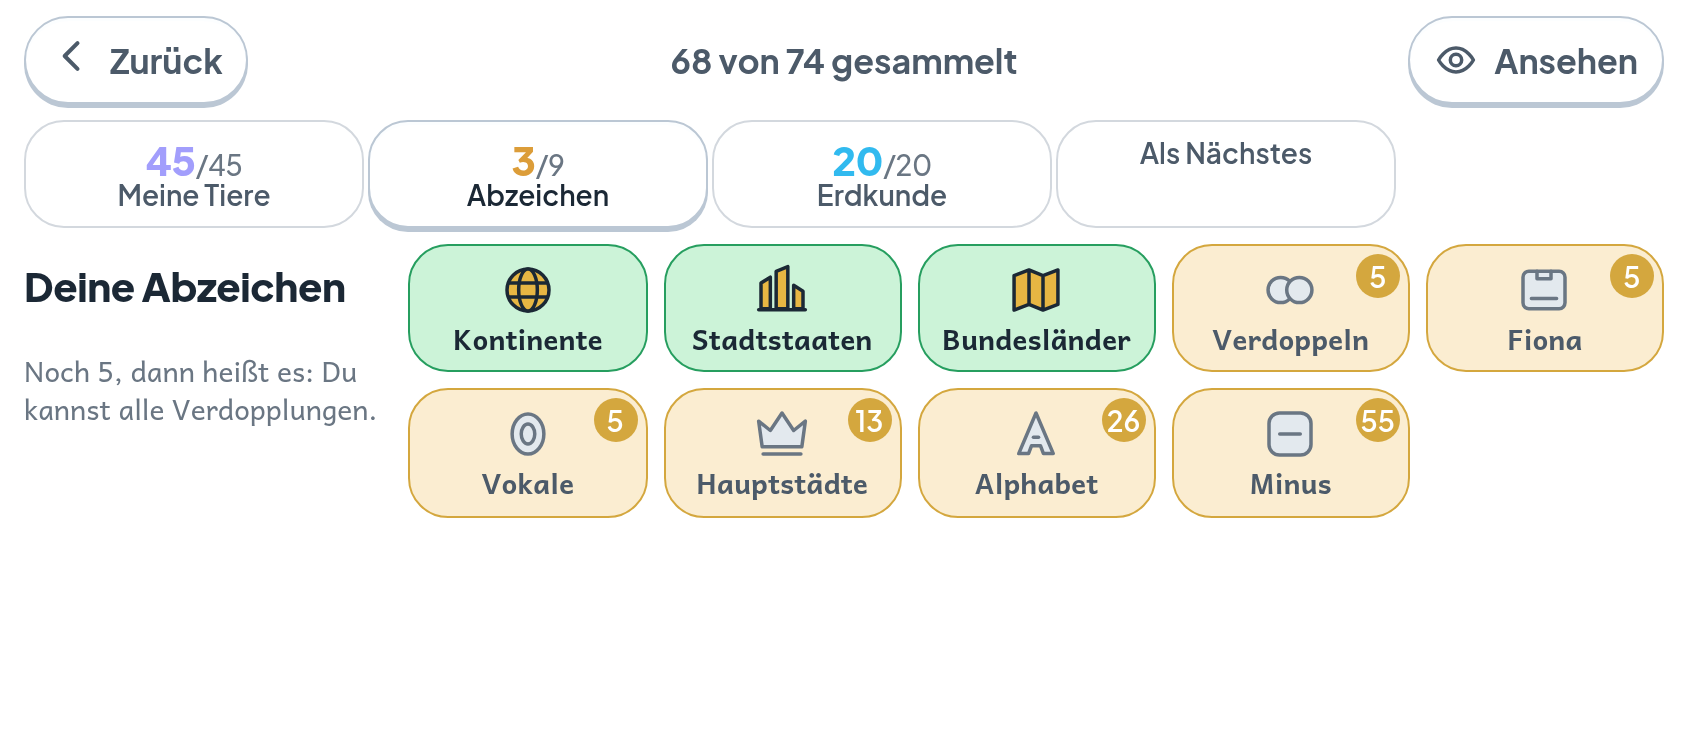
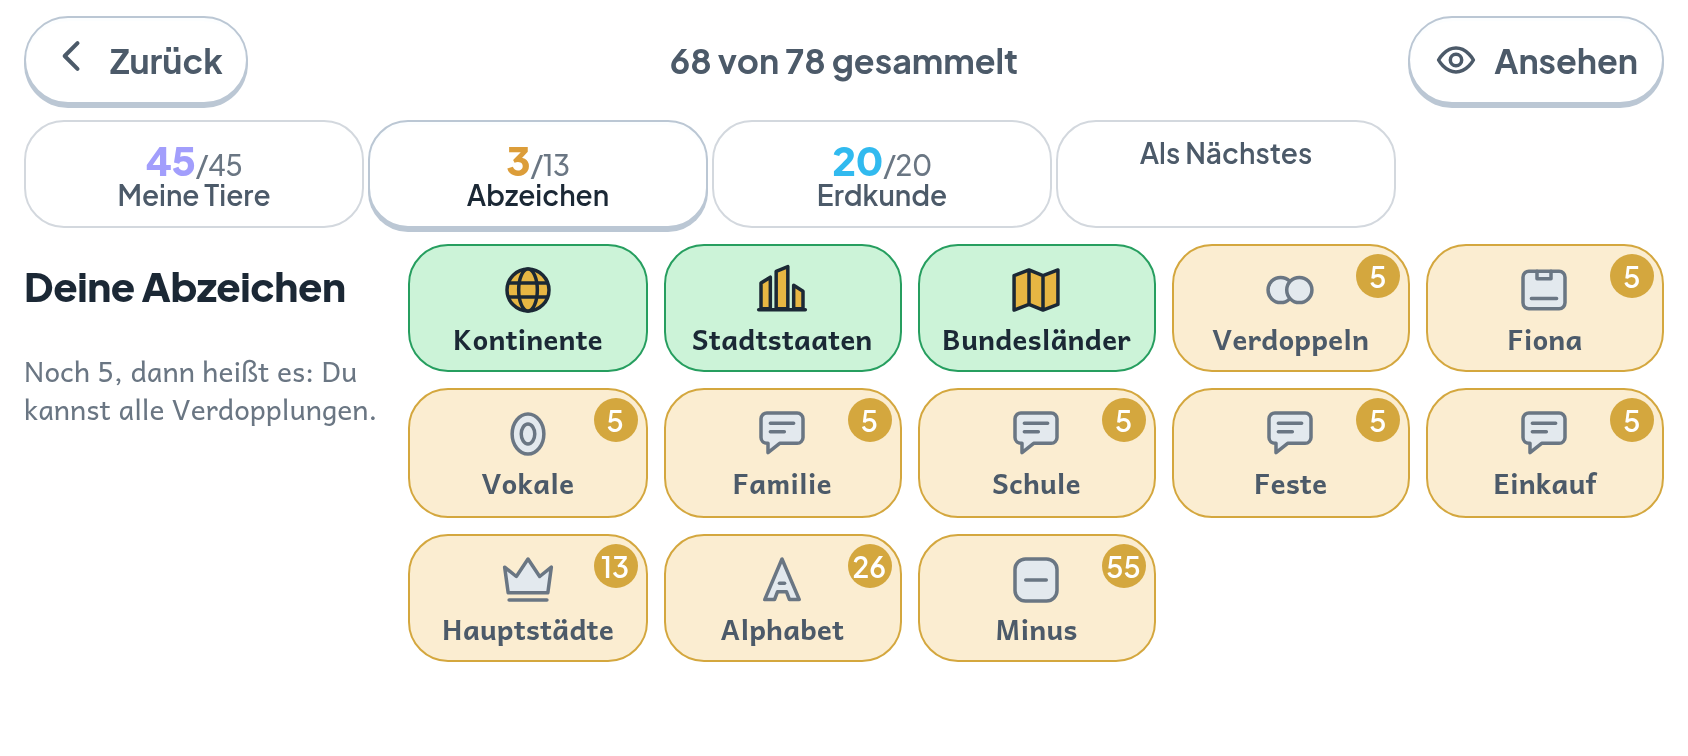
E9b: vier Abzeichen fuer die Saetze zum Selbersagen
Die erste Menge dieser Tafel, die nicht an einem MERKMAL des Gegenstands
haengt, sondern an seiner HERKUNFT: jeder Satz traegt die Nummer des
Themengebiets, aus dessen Redemitteln er stammt. Fuenf Saetze je Gebiet,
vier Gebiete - Familie, Schule, Feste, Einkauf.

Die Mechanik blieb unberuehrt. `abzeichenDer` kann `je:[…]` seit den
Malreihen, `stand` rechnet ohnehin nur ueber `teile`. Dazu kamen vier
Eintraege in `TAFEL`, ein Zeichen (`blase`) und ein Eintrag im Vorrat
des Tores.

Der Titel sagt „die Saetze", nicht „alle Saetze". Zum Thema Schule gibt
es mehr englische Saetze als fuenf; in D2b ist an derselben Stelle „alle
Laender in Asien" ausgefallen, weil das Kind es eines Tages merkt.

Und eine neue Doppelung samt Wache: die deutschen Gebietsnamen stehen
jetzt auch in `abzeichen.js`, damit das Modul ohne Einfuhren bleibt.
Was zweimal dasteht, veraltet einmal - deshalb vergleicht das Tor
`abzeichen` die vier Kennungen gegen `THEMENGEBIETE`.

Zwei Gegenproben: die Menge faellt leer aus, die Abdeckung veraltet.
Vorbild `quer-buch-abzeichen` erneuert - 19 statt 15 Abzeichen.

Claude-Session: https://claude.ai/code/session_01GwecUQxeRqJxKHLkGsVrjv

diff --git a/src/inhalt/abzeichen.js b/src/inhalt/abzeichen.js
@@ -74,6 +74,27 @@
 const REIHENWORT = { 2:'Zweier', 3:'Dreier', 4:'Vierer', 5:'Fünfer', 6:'Sechser',
                      7:'Siebener', 8:'Achter', 9:'Neuner', 10:'Zehner' };
 
+/** Die vier Themengebiete des Lehrplans, kurz und lang.
+ *
+ * Die Namen stehen amtlich in `THEMENGEBIETE` (src/inhalt/englisch.js).
+ * Sie stehen hier trotzdem ein zweites Mal. Was zweimal dasteht,
+ * veraltet einmal (Regel 6) - es sei denn, es wird bewacht. Dieses
+ * Modul hat keine Einfuhren, damit es sich ohne Profil und ohne Vorrat
+ * pruefen laesst, und das soll so bleiben. Bewacht wird die Doppelung im Tor
+ * `inhalt`: die vier Kennungen hier muessen genau die vier Nummern der
+ * amtlichen Tafel sein, sonst faellt das Tor. Eine Doppelung, die eine
+ * Pruefung hat, veraltet nicht still.
+ *
+ * `lang` steht hinter „zum Thema" - deshalb ohne Artikel, und deshalb
+ * traegt es fuer alle vier dieselbe Fuge. „Du hast die Saetze zur
+ * Schule gesagt" haette je Gebiet einen anderen Fall gebraucht. */
+const GEBIETSWORT = {
+  '4.1': { kurz: 'Familie', lang: 'Familie und Freunde' },
+  '4.2': { kurz: 'Schule',  lang: 'Schule' },
+  '4.3': { kurz: 'Feste',   lang: 'Freizeit und Feste' },
+  '4.4': { kurz: 'Einkauf', lang: 'Einkaufen' },
+};
+
 /* Die Tafel.
  *
  * Je Eintrag:
@@ -208,6 +229,26 @@ export const TAFEL = [
     kurz: () => 'Vokale',
     titel: () => 'Du kennst alle Vokale.',
     waehlt: (v) => v.filter(x => 'AEIOU'.includes(x.zeichen)) },
+
+  /* --- E9b: vier Abzeichen fuer die Saetze zum Selbersagen ------------ *
+   *
+   * Die erste Menge dieser Tafel, die nicht aus einem Merkmal am
+   * Gegenstand faellt, sondern aus seiner HERKUNFT: jeder Satz traegt
+   * die Nummer des Themengebiets, aus dessen Redemitteln er stammt.
+   * Fuenf Saetze je Gebiet - klein genug, um sie zu Ende zu bringen,
+   * und das war die Lehre aus dem Panini-Album.
+   *
+   * Der Titel sagt „die Saetze", nicht „alle Saetze". Der Unterschied
+   * ist derselbe wie bei „alle Laender in Asien" ein Stueck weiter
+   * oben: es gibt zum Thema Schule mehr englische Saetze als fuenf, und
+   * ein Kind, das das eines Tages merkt, soll das Abzeichen nicht als
+   * Luege erleben. „Die Saetze" meint die, die es hier gab - und die
+   * hat es dann wirklich alle gesagt. */
+  { ebene:'englisch:satz', id:(g)=>`saetze-${g}`, zeichen:'blase',
+    je:['4.1','4.2','4.3','4.4'],
+    kurz: (g) => GEBIETSWORT[g].kurz,
+    titel: (g) => `Du hast die Sätze zum Thema ${GEBIETSWORT[g].lang} gesagt.`,
+    waehlt: (v, g) => v.filter(x => x.gebiet === g) },
 ];
 
 /**

diff --git a/prototyp/spiel.js b/prototyp/spiel.js
@@ -2672,6 +2672,14 @@ const ABZEICHENBILD = {
      dem A, liest sich das freistehende O als Buchstabe. */
   vokal: '<ellipse cx="12" cy="12" rx="6.8" ry="8.6"/>'
        + '<ellipse cx="12" cy="12" rx="2.9" ry="4.3" fill="none"/>',
+  /* Die Sprechblase der Satzebene (E9b). Sie ist im Spiel schon die
+     Kachel von „Sag den Satz" (`BLASENSTRICH`) - hier dieselbe Form in
+     der Abzeichensprache: gefuellt mit Kontur, die Zeilen darin ohne
+     Fuellung. `schild` ist ebenfalls ein Rechteck mit Strichen, aber
+     ohne Schwanz; bei 34 Punkten ist der Schwanz der Unterschied, den
+     man sieht. */
+  blase: '<path d="M3 5.5A2.5 2.5 0 0 1 5.5 3h13A2.5 2.5 0 0 1 21 5.5v8a2.5 2.5 0 0 1-2.5 2.5H11l-5 4v-4h-.5A2.5 2.5 0 0 1 3 13.5z"/>'
+       + '<path d="M7 7.4h10M7 11h6" fill="none" stroke-linecap="round"/>',
   medaille: '<path d="M8.2 2.6 12 9.4 15.8 2.6" fill="none" stroke-linecap="round"/>'
           + '<circle cx="12" cy="15.4" r="6.2"/>'
           + '<path d="M9.4 15.6l1.9 1.9 3.4-3.9" fill="none" stroke-linecap="round"/>',

diff --git a/docs/Lernkiste-BACKLOG.md b/docs/Lernkiste-BACKLOG.md
@@ -399,7 +399,7 @@ veraltet eine der beiden Fassungen).
 | **E11** | **Eltern: Wendungen** je Themengebiet, mehrere gueltige Antworten | **GEFAHREN v376** — siehe Block unten |
 | **E12** | **Eltern: Hoeren und schreiben** — ganzer Satz, normales Tempo | **GEFAHREN v376** — siehe Block unten |
 
-### E9 · „Der Satz zum Selbersagen" — GEFAHREN (die Sätze; die Abzeichen als E9b)
+### E9 · „Der Satz zum Selbersagen" — GEFAHREN (die Sätze; die Abzeichen als E9b — auch gefahren)
 
 **Zwanzig Sätze, und keiner davon ist erfunden.** `THEMENGEBIETE` hält die
 amtlichen Redemittel — aber als **Schablonen**: *„This is my (little)
@@ -432,11 +432,39 @@ Mikrofon und einen Knopf, beide sagen ihr Englisch vor, beide werten. Ohne
 diese Zeile bliebe ein Durchlauf grün, während „Sag den Satz" still nach
 Farben fragt.
 
-**Offen als E9b: die Abzeichen je Themengebiet.** Die Mechanik trägt sie ohne
-eine Zeile Änderung (`abzeichenDer`, `stand`), was fehlt sind vier Einträge in
-der Tafel und vier Zeichen. Und die eigentliche Form aus dem Konzept — den
-Satz aus Wortkarten **zusammensetzen** — braucht dasselbe Legebauteil wie E8;
-das ist der Grund, warum beide zusammen gehören und nicht einzeln.
+### E9b · Vier Abzeichen für die Sätze — GEFAHREN
+
+Die Vorhersage stimmte: **keine Zeile an der Mechanik.** `abzeichenDer` kann
+`je:[…]` seit den Malreihen, `stand` rechnet ohnehin nur über `teile`. Was
+dazukam, sind vier Einträge in `TAFEL`, ein Zeichen (`blase`) und ein Eintrag
+im Vorrat des Tores — zusammen unter fünfzig Zeilen.
+
+**Die Menge kommt zum ersten Mal aus der HERKUNFT, nicht aus einem Merkmal.**
+Alle bisherigen Abzeichen wählen an etwas, das der Gegenstand *ist*:
+`stadtstaat`, `nachbarDE`, `rechenart === 'minus'`, ein Vokal. Ein Satz ist
+nichts davon — er *stammt* aus einem Themengebiet, und `gebiet` trägt genau
+das. Fünf Sätze je Gebiet, vier Gebiete.
+
+**Der Titel sagt „die Sätze", nicht „alle Sätze".** Das ist dieselbe
+Entscheidung, an der in D2b „alle Länder in Asien" gescheitert ist: es gibt
+zum Thema Schule mehr englische Sätze als fünf. „Alle" wäre ein Satz, den das
+Kind eines Tages als Lüge erlebt; „die Sätze" meint die, die es hier gab — und
+die hat es dann wirklich alle gesagt.
+
+**Und die eine neue Doppelung, samt Wache.** Die deutschen Gebietsnamen
+stehen jetzt in `abzeichen.js` ein zweites Mal, weil das Modul ohne Einfuhren
+bleiben soll (nur so lässt es sich ohne Profil und ohne Vorrat prüfen). Was
+zweimal dasteht, veraltet einmal — Regel 6 verlangt dafür eine Wache, und
+hier ist sie: das Tor `abzeichen` vergleicht die vier Kennungen
+gegen `THEMENGEBIETE`. Wer dort ein Gebiet hinzufügt, bekommt es gesagt,
+statt ein namenloses Abzeichen zu erben.
+
+Zwei Gegenproben: die Menge fällt leer aus (Tippfehler im Feldnamen), und die
+Abdeckung veraltet (ein Gebiet weniger in `je`).
+
+**Was von E9 offen bleibt:** die eigentliche Form aus dem Konzept — den Satz
+aus Wortkarten **zusammensetzen** (E9c). Sie braucht dasselbe Legebauteil wie
+E8; das ist der Grund, warum beide zusammen gehören und nicht einzeln.
 
 ### E6 · „Sag es" — GEFAHREN
 

diff --git a/docs/Lernkiste-STAND.md b/docs/Lernkiste-STAND.md
@@ -11478,3 +11478,42 @@ sie geht leise.** Die Liste dieser Woche:
 
 Alle vier hätten sich als „grünes Tor" gemeldet. Keine einzige davon war ein
 Fehler in der App.
+
+## E9b · Vier Abzeichen für die Sätze — und die erste Menge aus einer Herkunft
+
+**Was gebaut wurde.** Vier Einträge in `TAFEL`, ein Zeichen (`blase`), ein
+Eintrag im Vorrat des Tores `abzeichen`. Die Mechanik blieb unberührt:
+`abzeichenDer` kann `je:[…]` seit den Malreihen, `stand` rechnet ohnehin nur
+über `teile`. Gemessen an der Abzeichenseite: **19 statt 15 Abzeichen**, vier
+neue Kacheln in der zweiten Reihe — Familie · Schule · Feste · Einkauf, je
+fünf Sätze.
+
+**Die erste Menge, die nicht an einem MERKMAL hängt.** Alle bisherigen wählen
+an etwas, das der Gegenstand *ist*: `stadtstaat`, `nachbarDE`,
+`rechenart === 'minus'`, ein Vokal in `AEIOU`. Ein Satz ist nichts davon — er
+*stammt* aus einem Themengebiet. `gebiet` trägt genau das, seit E9, weil jeder
+Satz seine Quelle nachweisen muss. Das Abzeichen war damit schon bezahlt,
+bevor es gebaut wurde; das ist der Grund, warum es unter fünfzig Zeilen
+gekostet hat.
+
+**„Die Sätze", nicht „alle Sätze".** Zum Thema Schule gibt es mehr englische
+Sätze als die fünf, die hier stehen. In D2b ist an genau dieser Stelle „alle
+Länder in Asien" ausgefallen (zwölf von achtundvierzig): ein Abzeichen, dessen
+Satz das Kind eines Tages als Lüge erlebt, ist schlechter als keines. „Die
+Sätze" meint die, die es hier gab — und die hat es dann wirklich alle gesagt.
+Der Unterschied ist ein Wort und kostet nichts.
+
+**Die neue Doppelung und ihre Wache.** Die deutschen Gebietsnamen stehen jetzt
+zweimal: amtlich in `THEMENGEBIETE`, und noch einmal in `abzeichen.js`. Das ist
+Absicht — das Modul hat keine Einfuhren, damit es sich ohne Profil und ohne
+Vorrat prüfen lässt. Aber was zweimal dasteht, veraltet einmal, und deshalb
+vergleicht das Tor `abzeichen` jetzt die vier Kennungen gegen die amtliche
+Tafel. Wer dort ein Gebiet hinzufügt oder umnummeriert, bekommt es gesagt,
+statt ein namenloses Abzeichen zu erben.
+
+**Das Zeichen.** Eine Sprechblase, gefüllt mit Kontur, die zwei Zeilen darin
+ohne Füllung — dieselbe Bildsprache wie `stadt` und `schild`. Der Blick auf
+die Aufnahme war nötig: `schild` ist ebenfalls ein Rechteck mit Strichen, und
+bei 34 Punkten ist der Schwanz der Blase der einzige Unterschied, den man
+sieht. Er reicht — auf `quer-buch-abzeichen` stehen beide nebeneinander
+(Fiona · Familie) und sind auseinanderzuhalten.
